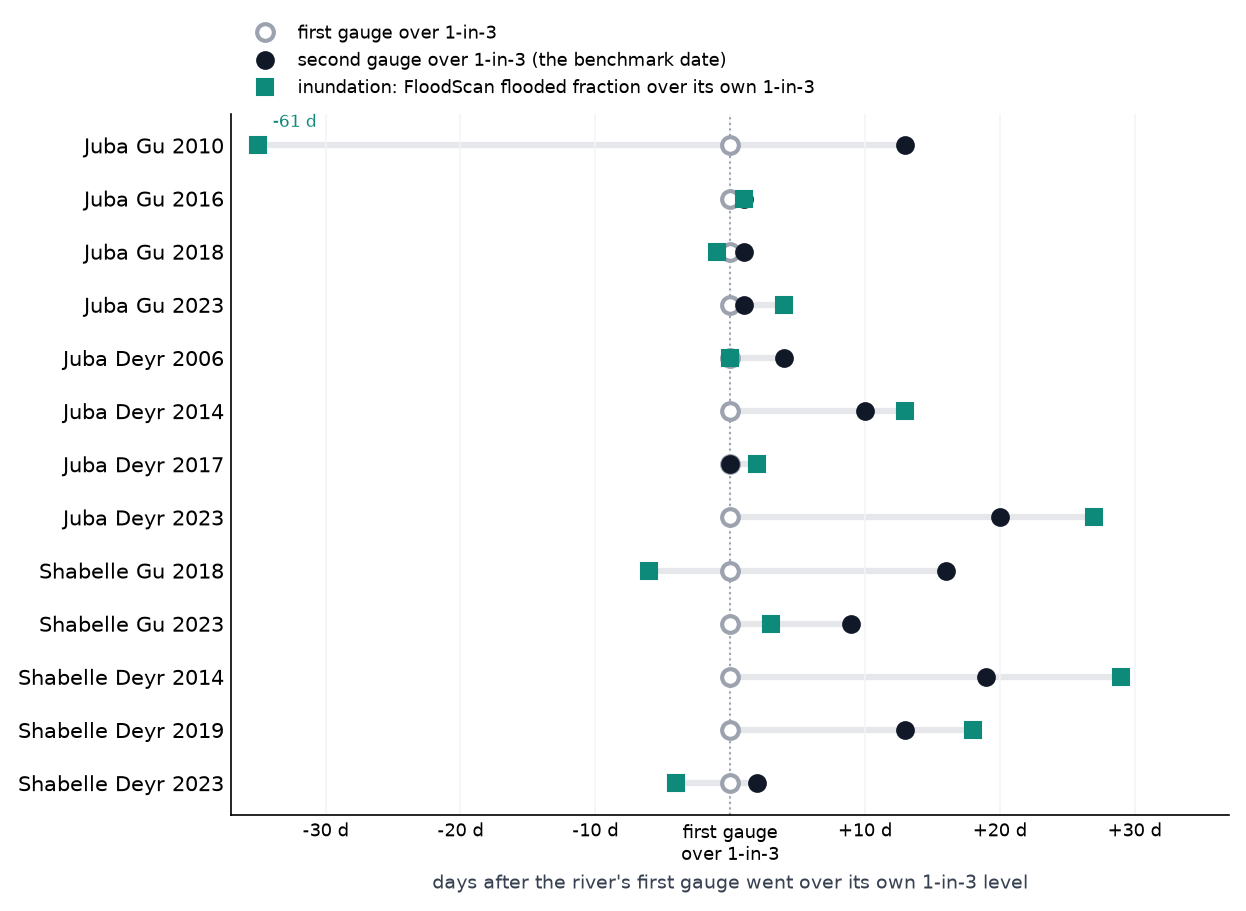
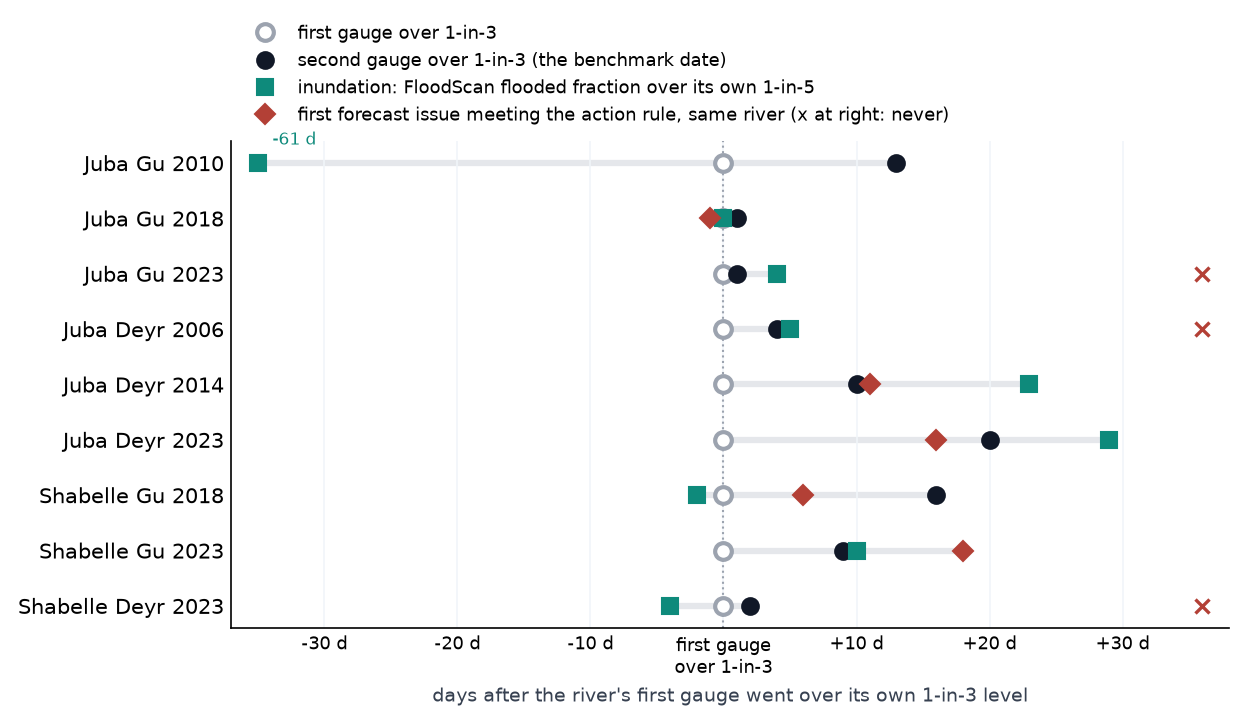
Analysis page: inundation dated at FloodScan's own 1-in-5; does the trigger catch it seven days ahead?
Per inundation season with a forecast archive, the first issue on which the window's source
met the action rule, same river and either river, and the lead to inundation. The gaps that
put inundation ahead of the gauges are named: the ungauged lower Shabelle, fitted levels at
or above SWALIM's high-risk levels, and rain ponding at 10 km.

diff --git a/pages/trigger-single-model/index.html b/pages/trigger-single-model/index.html
@@ -807,31 +807,69 @@ html { scroll-behavior:smooth; }
       level. FloodScan gives an independent date for water on the ground: the daily flooded
       fraction (SFED, about 10 km resolution) averaged over a 10-km buffer of the river's main
       stem, 1998&ndash;2023, the same series the flood-benchmark step validated against the
-      gauges. Inundation is dated here the same way as the gauges, the first day of the season
-      on which the buffer's flooded fraction reaches its own 1-in-3 level (Weibull on seasonal
-      maxima). The table compares that day with the gauge days, in the seasons both records
-      call a 1-in-3 flood; a positive number means inundation showed after the gauge day.</p>
+      gauges. Inundation is dated as the first day of the season on which the buffer's flooded
+      fraction reaches its own 1-in-5 level (Weibull on seasonal maxima); 1-in-5 rather than
+      1-in-3 so that ordinary seasonal ponding does not count. The table compares that day with
+      the gauge days in the seasons both records call a flood; a positive number means
+      inundation showed after the gauge day.</p>
     <div class="tablewrap">
     <table class="data">
     <thead><tr><th>window</th><th>seasons both call a flood</th><th>inundation vs 2nd gauge, median (range)</th><th>vs 1st gauge, median (range)</th><th>seasons</th><th>FloodScan only</th><th>gauges only</th></tr></thead>
-    <tbody><tr><td>Juba Gu</td><td>4</td><td>-1 d (-74 to +3)</td><td>0 d (-61 to +4)</td><td>2010, 2016, 2018, 2023</td><td>2001, 2002, 2004, 2017, 2022</td><td>2005, 2020</td></tr><tr><td>Juba Deyr</td><td>4</td><td>+2 d (-4 to +7)</td><td>+8 d (+0 to +27)</td><td>2006, 2014, 2017, 2023</td><td>2000, 2002, 2011, 2013, 2015</td><td>2008</td></tr><tr><td>Shabelle Gu</td><td>2</td><td>-14 d (-22 to -6)</td><td>-2 d (-6 to +3)</td><td>2018, 2023</td><td>2002, 2004, 2006, 2011, 2017, 2019, 2022</td><td>2003, 2005, 2010, 2016, 2020</td></tr><tr><td>Shabelle Deyr</td><td>3</td><td>+5 d (-6 to +10)</td><td>+18 d (-4 to +29)</td><td>2014, 2019, 2023</td><td>2004, 2011, 2012, 2015, 2016, 2017</td><td>2006, 2008, 2020</td></tr></tbody>
+    <tbody><tr><td>Juba Gu</td><td>3</td><td>-1 d (-74 to +3)</td><td>0 d (-61 to +4)</td><td>2010, 2018, 2023</td><td>2002, 2017</td><td>2005, 2016, 2020</td></tr><tr><td>Juba Deyr</td><td>3</td><td>+9 d (+1 to +13)</td><td>+23 d (+5 to +29)</td><td>2006, 2014, 2023</td><td>2002, 2011</td><td>2008, 2017</td></tr><tr><td>Shabelle Gu</td><td>2</td><td>-8 d (-18 to +1)</td><td>+4 d (-2 to +10)</td><td>2018, 2023</td><td>2002, 2006, 2017</td><td>2003, 2005, 2010, 2016, 2020</td></tr><tr><td>Shabelle Deyr</td><td>1</td><td>-6 d (-6 to -6)</td><td>-4 d (-4 to -4)</td><td>2023</td><td>2011, 2015, 2016, 2017</td><td>2006, 2008, 2014, 2019, 2020</td></tr></tbody>
     </table>
     </div>
-    <figure><img src="figs/floodscan_timeline.png" alt="Timeline per flood season: first gauge, second gauge and FloodScan inundation over their own 1-in-3 levels"><figcaption>One row per season both records call a flood. Day 0 is the first SWALIM gauge on the river over its own 1-in-3 level; the black dot is the second gauge, the day the benchmark dates the flood; the teal square is the day the FloodScan flooded fraction along the river went over its own 1-in-3 level. Points beyond 35 days are drawn at the edge with their value.</figcaption></figure>
-    <p>Where the two records agree that a season flooded, inundation appears within about a
-      week of the second-gauge day: 2 to 5 days after it in Deyr, and around the first
-      gauge in Gu, where the Juba's gauges cross within a day of each other anyway. The
-      second-gauge convention is therefore close to when water is seen on the ground, and
-      the first-gauge day runs up to four weeks ahead of it on the Shabelle in Deyr.</p>
-    <p>The comparison is thin and the two records disagree often. Only two to four seasons per
-      window are called a flood by both; FloodScan calls several seasons the gauges do not
-      (Gu Shabelle seven of them) and misses several the gauges call (Gu Shabelle 2003,
-      2005, 2010, 2016 and 2020). At 10 km the SFED product blurs a river a few hundred
-      metres wide with rainfall ponding on the floodplain, which is why the flood-benchmark
-      step kept the gauges as the benchmark and FloodScan as context. Gu Juba 2010, with
-      inundation dated 74 days before the gauges, is a rainfall signal in March, not the
-      river. The medians above should be read as consistent with the gauge dating, not as a
-      measurement of it.</p>
+    <figure><img src="figs/floodscan_timeline.png" alt="Timeline per flood season: first gauge, second gauge and FloodScan inundation"><figcaption>One row per season both records call a flood. Day 0 is the first SWALIM gauge on the river over its own 1-in-3 level; the black dot is the second gauge, the day the benchmark dates the flood; the teal square is the day the FloodScan flooded fraction along the river went over its own 1-in-5 level. Points beyond 35 days are drawn at the edge with their value.</figcaption></figure>
+    <p><strong>On the Juba the second-gauge date holds.</strong> Inundation follows the second
+      gauge by 1 to 13 days in Deyr and lands within three days of it in Gu, where the Juba's
+      gauges cross within a day of each other. <strong>On the Shabelle it can come first.</strong>
+      In Gu 2018 the floodplain was under water 18 days before the second gauge crossed and two
+      days before the first; in Deyr 2023, six days before the second. Three things explain
+      inundation ahead of the gauges, and each is a gap in the benchmark rather than in the
+      satellite:</p>
+    <ul>
+      <li><strong>The lower Shabelle has no gauge.</strong> Downstream of Jowhar, from Afgooye
+        to Marka, the river overtops at flows that leave the three monitored gauges below their
+        levels. In both Shabelle cases the buffer's lower segment flooded first, while Belet
+        Weyne, Bulo Burti and Jowhar stood at 71 to 96 per cent of their own 1-in-3 levels. The
+        benchmark, and the trigger, date the flood by gauges upstream of where it starts.</li>
+      <li><strong>The fitted 1-in-3 levels sit at or above SWALIM's high-risk levels</strong> at
+        Bardheere, Belet Weyne and Jowhar, and the river breaks through weak embankments below
+        them. Moderate flooding can therefore be under way before a gauge reaches its
+        statistical 1-in-3, which the benchmark counts as no flood yet.</li>
+      <li><strong>Rain on the floodplain reads as water.</strong> Juba Gu 2010 is dated 61 days
+        before the first gauge because the buffer flooded in early March, with the gauges at
+        34 to 95 per cent of their levels: rainfall ponding at 10 km resolution, not the river.
+        Raising the FloodScan level to 1-in-5 removes most such seasons but not this one.</li>
+    </ul>
+    <p id="lead-to-inundation"><strong>Does the trigger catch the inundation seven days ahead?</strong> Taking every
+      season in which FloodScan's flooded fraction reached its own 1-in-5 level and a forecast
+      archive exists (15 seasons: Google Flood Hub 2016&ndash;2023 in Gu, GloFAS v4 2003&ndash;2023 in
+      Deyr), and the first forecast issue on which the window's source met the action rule at
+      leads 1 to 7: on the same river the rule was met seven or more days before inundation in
+      <strong>2 of 15</strong> seasons, one to six days before in 1,
+      on or after the day in 2, and never in 10. Counting an activation
+      on either river, 4 of 15 had seven or more days. The seven-day cases are
+      Deyr on the Juba, 2014 and 2023, on GloFAS v4. In Gu, Google met the rule the day before
+      inundation on the Juba in 2018 and eight days after it on the Shabelle in 2018 and 2023.</p>
+    <div class="tablewrap">
+    <table class="data">
+    <thead><tr><th>season</th><th>inundation (FloodScan 1-in-5)</th><th>rule met, same river</th><th>lead</th><th>rule met, either river</th><th>lead</th></tr></thead>
+    <tbody><tr><td>Juba Gu 2017</td><td>2017-05-04</td><td>never</td><td>&ndash;</td><td>never</td><td>&ndash;</td></tr><tr><td>Juba Gu 2018</td><td>2018-04-16</td><td>2018-04-15</td><td style="background:rgba(244,169,59,.18)">+1 d</td><td>2018-04-15</td><td style="background:rgba(244,169,59,.18)">+1 d</td></tr><tr><td>Juba Gu 2023</td><td>2023-03-28</td><td>never</td><td>&ndash;</td><td>2023-04-26</td><td style="background:rgba(179,64,54,.14)">-29 d</td></tr><tr><td>Juba Deyr 2006</td><td>2006-10-31</td><td>never</td><td>&ndash;</td><td>never</td><td>&ndash;</td></tr><tr><td>Juba Deyr 2011</td><td>2011-10-20</td><td>never</td><td>&ndash;</td><td>never</td><td>&ndash;</td></tr><tr><td>Juba Deyr 2014</td><td>2014-11-04</td><td>2014-10-23</td><td style="background:rgba(14,138,123,.18)">+12 d</td><td>2014-10-07</td><td style="background:rgba(14,138,123,.18)">+28 d</td></tr><tr><td>Juba Deyr 2023</td><td>2023-11-03</td><td>2023-10-21</td><td style="background:rgba(14,138,123,.18)">+13 d</td><td>2023-10-21</td><td style="background:rgba(14,138,123,.18)">+13 d</td></tr><tr><td>Shabelle Gu 2017</td><td>2017-05-05</td><td>never</td><td>&ndash;</td><td>never</td><td>&ndash;</td></tr><tr><td>Shabelle Gu 2018</td><td>2018-04-19</td><td>2018-04-27</td><td style="background:rgba(179,64,54,.14)">-8 d</td><td>2018-04-15</td><td style="background:rgba(244,169,59,.18)">+4 d</td></tr><tr><td>Shabelle Gu 2023</td><td>2023-04-18</td><td>2023-04-26</td><td style="background:rgba(179,64,54,.14)">-8 d</td><td>2023-04-26</td><td style="background:rgba(179,64,54,.14)">-8 d</td></tr><tr><td>Shabelle Deyr 2011</td><td>2011-10-25</td><td>never</td><td>&ndash;</td><td>never</td><td>&ndash;</td></tr><tr><td>Shabelle Deyr 2015</td><td>2015-10-22</td><td>never</td><td>&ndash;</td><td>2015-10-23</td><td style="background:rgba(179,64,54,.14)">-1 d</td></tr><tr><td>Shabelle Deyr 2016</td><td>2016-11-20</td><td>never</td><td>&ndash;</td><td>never</td><td>&ndash;</td></tr><tr><td>Shabelle Deyr 2017</td><td>2017-11-04</td><td>never</td><td>&ndash;</td><td>2017-10-19</td><td style="background:rgba(14,138,123,.18)">+16 d</td></tr><tr><td>Shabelle Deyr 2023</td><td>2023-10-31</td><td>never</td><td>&ndash;</td><td>2023-10-21</td><td style="background:rgba(14,138,123,.18)">+10 d</td></tr></tbody>
+    </table>
+    </div>
+    <p>Two readings of this. Ten of the 15 inundation seasons are not gauge floods at all, so the
+      models had no river flood to forecast; FloodScan is seeing rain on the floodplain or the
+      lower Shabelle. Set those aside and the trigger's timing against the gauges stands as
+      shown earlier on this page. But in the seasons that were both a gauge flood and a
+      satellite-visible inundation, the answer to the question is no for Gu and yes for Deyr
+      on the Juba: on the Shabelle the ground was under water before the forecasts saw the
+      river reach its levels, and on the Juba in Gu the two came within a day.</p>
+    <p>The comparison is thin. Only one to three seasons per window are called a flood by both
+      records, FloodScan calls seasons the gauges do not, and misses several the gauges call
+      (Gu Shabelle 2003, 2005, 2010, 2016 and 2020). The flood-benchmark step kept the gauges
+      as the benchmark for that reason. What the comparison adds is a direction: where the
+      benchmark errs on timing it errs late, on the Shabelle, and the reach it misses is the
+      one below the last gauge.</p>
 <h3 id="calibrated-on-the-reanalysis-checked-on-the-forecasts">Calibrated on the reanalysis, checked on the forecasts</h3>
 <p>Refitting the same rule on the forecast archives themselves, 2003&ndash;2023, thresholds from 1-in-3 to 1-in-5. Out of the field: Google GRRR, whose archive is too short to carry a 1-in-3 threshold, so it can only be calibrated on the retrospective.</p><div class="tablewrap">
 <table class="data">

diff --git a/scripts/page_additions/floodscan_timeline.py b/scripts/page_additions/floodscan_timeline.py
@@ -1,7 +1,7 @@
-"""Timeline per flood season: first gauge over 1-in-3 (day 0), second gauge over 1-in-3 (the
-benchmark date), and FloodScan inundation (river-buffer flooded fraction over its own 1-in-3).
-Seasons both records call a flood. Reads floodscan_timing.json; writes
-pages/trigger-single-model/figs/floodscan_timeline.png."""
+"""Timeline per season both records call a flood: first gauge over 1-in-3 (day 0), second gauge
+over 1-in-3 (the benchmark date), FloodScan inundation (river-buffer flooded fraction over its
+own 1-in-5), and the first forecast issue on which the window's source met the action rule.
+Reads floodscan_timing.json and floodscan_lead.json; writes figs/floodscan_timeline.png."""
 import json
 from pathlib import Path
 
@@ -12,32 +12,44 @@ from matplotlib.lines import Line2D
 
 S = Path(__file__).parent
 res = json.load(open(S / "floodscan_timing.json"))
+lead = {(o["river"], o["season"], o["year"]): o for o in json.load(open(S / "floodscan_lead.json"))}
 NAME = {"gu_juba": "Juba Gu", "deyr_juba": "Juba Deyr", "gu_shabelle": "Shabelle Gu", "deyr_shabelle": "Shabelle Deyr"}
 ORDER = ["gu_juba", "deyr_juba", "gu_shabelle", "deyr_shabelle"]
-C_G1, C_G2, C_SFED = "#9ca3af", "#111827", "#0E8A7B"
+SFED_RP = res["gu_juba"].get("sfed_rp", 3)
+C_G1, C_G2, C_SFED, C_FC = "#9ca3af", "#111827", "#0E8A7B", "#B34036"
 XMAX = 35
 
 rows = []
 for k in ORDER:
     r = res[k]
+    season, river = k.split("_")
     for y in r["years_both"]:
         v1, v2 = r["vs_first"][str(y)], r["vs_second"][str(y)]
-        rows.append((f"{NAME[k]} {y}", v1 - v2, v1))          # second gauge at (onset-first)-(onset-second); inundation at onset-first
+        o = lead.get((river, season, y))
+        # forecast issue relative to the first gauge day: (onset - first) - (onset - issue)
+        fx = (v1 - o["same_lead"]) if (o and o["same_lead"] is not None) else None
+        rows.append((f"{NAME[k]} {y}", v1 - v2, v1, fx, o is not None))
 
-fig, ax = plt.subplots(figsize=(8.4, 0.36 * len(rows) + 1.5))
-for i, (label, x2, xs) in enumerate(rows):
+fig, ax = plt.subplots(figsize=(8.4, 0.36 * len(rows) + 1.7))
+for i, (label, x2, xs, fx, archived) in enumerate(rows):
     xs_c = max(min(xs, XMAX), -XMAX)
-    ax.plot([0, max(x2, xs_c, 0)], [i, i], color="#e5e7eb", lw=3, zorder=1, solid_capstyle="round")
-    if xs_c < 0:
-        ax.plot([xs_c, 0], [i, i], color="#e5e7eb", lw=3, zorder=1, solid_capstyle="round")
+    pts = [0, x2, xs_c] + ([max(min(fx, XMAX), -XMAX)] if fx is not None else [])
+    ax.plot([min(pts), max(pts)], [i, i], color="#e5e7eb", lw=3, zorder=1, solid_capstyle="round")
     ax.plot([0], [i], "o", color="white", mec=C_G1, mew=2, ms=8, zorder=3)
     ax.plot([x2], [i], "o", color=C_G2, ms=8, zorder=4)
     ax.plot([xs_c], [i], "s", color=C_SFED, ms=8, zorder=5)
     if xs != xs_c:
         ax.annotate(f"{xs:+d} d", (xs_c, i), xytext=(7, 7), textcoords="offset points", ha="left", va="bottom", fontsize=8, color=C_SFED)
+    if fx is not None:
+        fx_c = max(min(fx, XMAX), -XMAX)
+        ax.plot([fx_c], [i], "D", color=C_FC, ms=7, zorder=6)
+        if fx != fx_c:
+            ax.annotate(f"{fx:+d} d", (fx_c, i), xytext=(7, -11), textcoords="offset points", ha="left", va="top", fontsize=8, color=C_FC)
+    elif archived:
+        ax.plot([XMAX + 1], [i], "x", color=C_FC, ms=7, mew=1.6, zorder=6)
 ax.set_yticks(range(len(rows))); ax.set_yticklabels([r[0] for r in rows]); ax.invert_yaxis()
 ax.axvline(0, color="#9ca3af", lw=1, ls=":")
-ax.set_xlim(-XMAX - 2, XMAX + 2)
+ax.set_xlim(-XMAX - 2, XMAX + 3)
 ax.set_xticks(range(-30, 31, 10)); ax.set_xticklabels([f"{t:+d} d" if t else "first gauge\nover 1-in-3" for t in range(-30, 31, 10)], fontsize=8.5)
 ax.set_xlabel("days after the river's first gauge went over its own 1-in-3 level", fontsize=9, color="#374151")
 ax.grid(axis="x", color="#f1f5f9"); ax.tick_params(length=0)
@@ -45,7 +57,8 @@ for sp in ("top", "right"):
     ax.spines[sp].set_visible(False)
 ax.legend(handles=[Line2D([], [], marker="o", ls="none", color="white", mec=C_G1, mew=2, ms=8, label="first gauge over 1-in-3"),
                    Line2D([], [], marker="o", ls="none", color=C_G2, ms=8, label="second gauge over 1-in-3 (the benchmark date)"),
-                   Line2D([], [], marker="s", ls="none", color=C_SFED, ms=8, label="inundation: FloodScan flooded fraction over its own 1-in-3")],
+                   Line2D([], [], marker="s", ls="none", color=C_SFED, ms=8, label=f"inundation: FloodScan flooded fraction over its own 1-in-{SFED_RP}"),
+                   Line2D([], [], marker="D", ls="none", color=C_FC, ms=7, label="first forecast issue meeting the action rule, same river (x at right: never)")],
           loc="lower left", frameon=False, ncol=1, bbox_to_anchor=(0, 1.0), fontsize=8.6)
 fig.tight_layout()
 out = S / "wt-trigger/pages/trigger-single-model/figs/floodscan_timeline.png"

diff --git a/scripts/page_additions/floodscan_lead.py b/scripts/page_additions/floodscan_lead.py
@@ -1,0 +1,51 @@
+"""Does the trigger catch the inundation 7 days ahead? For every season in which FloodScan's
+river-buffer flooded fraction reached its own 1-in-5 level (inundation), the first forecast
+issue on which the window's source met the action rule (leads 1-7), same river and either
+river, and the lead to the inundation day. Writes floodscan_lead.json."""
+import json
+import pandas as pd
+import somlib as L
+from src.utils import weibull_level
+
+fs = pd.read_parquet("floodscan_daily.parquet"); fs["date"] = pd.to_datetime(fs["date"])
+WINDOWS = [("juba", "gu"), ("juba", "deyr"), ("shabelle", "gu"), ("shabelle", "deyr")]
+RULE = {("juba", "deyr"): (4, 3), ("shabelle", "deyr"): (4, 2), ("juba", "gu"): (5, 3), ("shabelle", "gu"): (6, 2)}
+FC = {"deyr": "glofas_v4", "gu": "google_grrr"}
+ARCHIVE = {"google_grrr": (2016, 2023), "glofas_v4": (2003, 2023)}
+SFED_RP = 5
+SPAN = list(range(1999, 2024))
+
+
+def sfed_onsets(river, season, rp=SFED_RP):
+    s = fs[(fs.river == river) & (fs.segment == "full")].set_index("date")["mean_sfed"].sort_index()
+    s = s[s.index.month.isin(L.SEASONS[season])]
+    lev = weibull_level(s.groupby(s.index.year).max().dropna().values, rp)
+    return {y: g[g >= lev].index.min().normalize() for y, g in s.groupby(s.index.year) if (g >= lev).any() and y in SPAN}
+
+
+first = {}
+for river, season in WINDOWS:
+    rp, n = RULE[(river, season)]
+    first[(river, season)] = {y: v[0] for y, v in L.first_issue_dates(FC[season], river, season, rp, n, span=SPAN, leads=(1, 7)).items()}
+
+out = []
+print(f"{'season':16}{'inundation':>12}{'same-river issue':>18}{'lead':>7}{'either-river issue':>20}{'lead':>7}")
+for river, season in WINDOWS:
+    lo, hi = ARCHIVE[FC[season]]
+    other = "shabelle" if river == "juba" else "juba"
+    for y, d in sorted(sfed_onsets(river, season).items()):
+        if not (lo <= y <= hi):
+            continue
+        same = first[(river, season)].get(y)
+        both = [x for x in (first[(river, season)].get(y), first[(other, season)].get(y)) if x is not None]
+        either = min(both) if both else None
+        ls = (d - same).days if same is not None else None; le = (d - either).days if either is not None else None
+        out.append({"river": river, "season": season, "year": y, "inundation": str(d.date()), "same_issue": str(same.date()) if same is not None else None, "same_lead": ls,
+                    "either_issue": str(either.date()) if either is not None else None, "either_lead": le})
+        f = lambda dd: dd.date().isoformat() if dd is not None else "never"
+        print(f"{season.title() + ' ' + river.title() + ' ' + str(y):16}{d.date().isoformat():>12}{f(same):>18}{(str(ls) + ' d') if ls is not None else '-':>7}{f(either):>20}{(str(le) + ' d') if le is not None else '-':>7}")
+json.dump(out, open("floodscan_lead.json", "w"), indent=1)
+n = len(out)
+for key, lab in (("same_lead", "same river"), ("either_lead", "either river")):
+    v = [o[key] for o in out]
+    print(f"\n{lab}: {n} inundation seasons with a forecast archive; rule met >=7 d before inundation: {sum(1 for x in v if x is not None and x >= 7)}; 1-6 d before: {sum(1 for x in v if x is not None and 0 < x < 7)}; same day or after: {sum(1 for x in v if x is not None and x <= 0)}; never: {sum(1 for x in v if x is None)}")

diff --git a/scripts/page_additions/floodscan_timing.py b/scripts/page_additions/floodscan_timing.py
@@ -11,9 +11,10 @@ fs = pd.read_parquet("floodscan_daily.parquet"); fs["date"] = pd.to_datetime(fs[
 WINDOWS = [("juba", "deyr"), ("shabelle", "deyr"), ("juba", "gu"), ("shabelle", "gu")]
 SEG_GAUGE = {("shabelle", "upper"): ["belet_weyne", "bulo_burti"], ("shabelle", "mid"): ["jowhar"], ("juba", "upper"): ["dollow", "luuq", "bardheere"], ("juba", "lower"): ["bualle"]}
 SPAN = range(1999, 2024)
+SFED_RP = 5          # inundation is dated when the buffer's flooded fraction reaches its own 1-in-5 level (gauges stay at 1-in-3)
 
 
-def sfed_onsets(river, segment, season, rp=3):
+def sfed_onsets(river, segment, season, rp=SFED_RP):
     s = fs[(fs.river == river) & (fs.segment == segment)].set_index("date")["mean_sfed"].sort_index()
     s = s[s.index.month.isin(L.SEASONS[season])]
     am = s.groupby(s.index.year).max().dropna()
@@ -27,7 +28,7 @@ def sfed_onsets(river, segment, season, rp=3):
 
 
 res = {}
-print("FloodScan (whole-river buffer) 1-in-3 onset against the gauges, days (+ = inundation after the gauge day)")
+print(f"FloodScan (whole-river buffer) 1-in-{SFED_RP} onset against the gauges' 1-in-3, days (+ = inundation after the gauge day)")
 print(f"{'window':15}{'yrs both':>9}{'vs 2nd gauge: median (range)':>32}{'vs 1st gauge: median (range)':>32}   SFED-only years | gauge-only years")
 for river, season in WINDOWS:
     on_s, lev = sfed_onsets(river, "full", season)
@@ -36,7 +37,7 @@ for river, season in WINDOWS:
     d2 = sorted((on_s[y] - g2[y]).days for y in both); d1 = sorted((on_s[y] - g1[y]).days for y in both)
     med = lambda v: (v[len(v) // 2] if len(v) % 2 else (v[len(v) // 2 - 1] + v[len(v) // 2]) / 2) if v else None
     rng = lambda v: f"{v[0]} to {v[-1]}" if v else "-"
-    res[f"{season}_{river}"] = {"level": lev, "years_both": both, "vs_second": {y: (on_s[y] - g2[y]).days for y in both}, "vs_first": {y: (on_s[y] - g1[y]).days for y in both},
+    res[f"{season}_{river}"] = {"level": lev, "sfed_rp": SFED_RP, "years_both": both, "vs_second": {y: (on_s[y] - g2[y]).days for y in both}, "vs_first": {y: (on_s[y] - g1[y]).days for y in both},
                                 "sfed_only": sorted(set(on_s) - set(g2)), "gauge_only": sorted(set(g2) - set(on_s))}
     print(f"{season.title() + ' ' + river.title():15}{len(both):>9}{str(med(d2)) + ' (' + rng(d2) + ')':>32}{str(med(d1)) + ' (' + rng(d1) + ')':>32}   {res[f'{season}_{river}']['sfed_only']} | {res[f'{season}_{river}']['gauge_only']}")
     for y in both:
